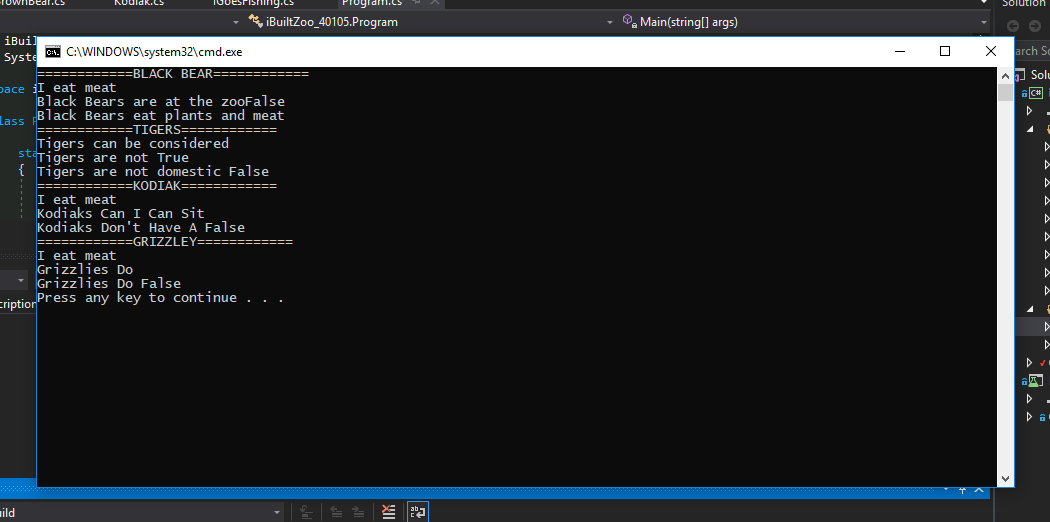
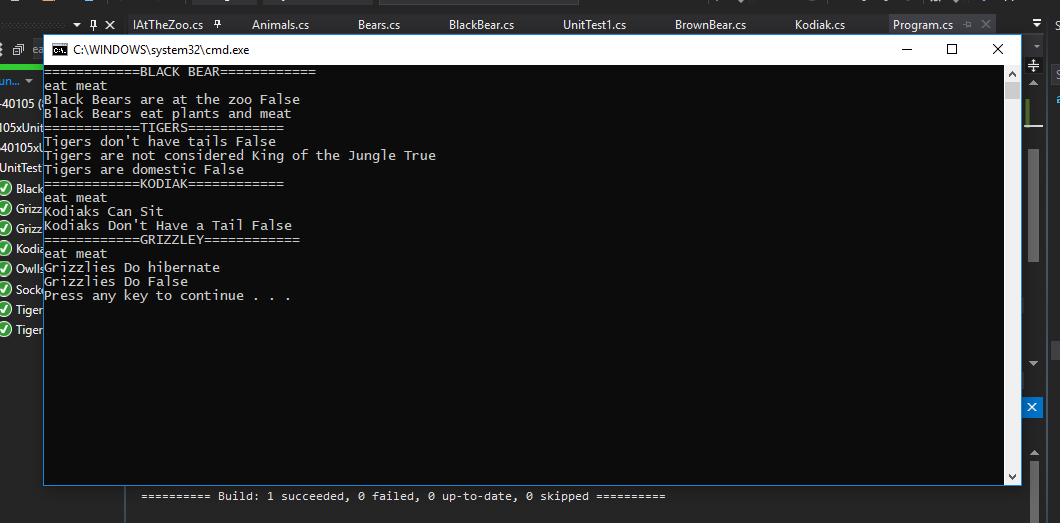
Fixing visual link

Changed region(s): [[0.0, 0.0, 1.0, 1.0]]

diff --git a/iBuiltZoo-40105/Program.cs b/iBuiltZoo-40105/Program.cs
@@ -10,25 +10,25 @@ namespace iBuiltZoo_40105
             BlackBear blackBear = new BlackBear();
             Console.WriteLine("============BLACK BEAR============");
             Console.WriteLine(blackBear.EatsMeat());
-            Console.WriteLine($"Black Bears are at the zoo{blackBear.IsAtTheZoo}");
+            Console.WriteLine($"Black Bears are at the zoo {blackBear.IsAtTheZoo}");
             Console.WriteLine($"Black Bears eat plants and meat {blackBear.Omnivore}");
 
             Tigers tigers = new Tigers();
             Console.WriteLine("============TIGERS============");
-            Console.WriteLine($"Tigers can be considered {tigers.Cats}");
-            Console.WriteLine($"Tigers are not {tigers.KingOfTheJungle()}");
-            Console.WriteLine($"Tigers are not domestic {tigers.Domestic}");
+            Console.WriteLine($"Tigers don't have tails {tigers.HasStrips}");
+            Console.WriteLine($"Tigers are not considered King of the Jungle {tigers.KingOfTheJungle()}");
+            Console.WriteLine($"Tigers are domestic {tigers.Domestic}");
 
             Kodiak kodiak = new Kodiak();
             Console.WriteLine("============KODIAK============");
             Console.WriteLine(kodiak.EatsMeat());
-            Console.WriteLine($"Kodiaks Can {kodiak.Sit()}");
-            Console.WriteLine($"Kodiaks Don't Have A { kodiak.HasTail} ");
+            Console.WriteLine($"Kodiaks {kodiak.Sit()}");
+            Console.WriteLine($"Kodiaks Don't Have a Tail { kodiak.HasTail} ");
 
             Grizzley grizzley = new Grizzley();
             Console.WriteLine("============GRIZZLEY============");
             Console.WriteLine(grizzley.EatsMeat());
-            Console.WriteLine($"Grizzlies Do {grizzley.Hibernates}");
+            Console.WriteLine($"Grizzlies Do hibernate {grizzley.Hibernates}");
             Console.WriteLine($"Grizzlies Do { grizzley.HasTail }");
 
 

diff --git a/iBuiltZoo-40105/Class/BlackBear.cs b/iBuiltZoo-40105/Class/BlackBear.cs
@@ -12,7 +12,7 @@ namespace iBuiltZoo_40105.Class
 
         public void IsWild()
         {
-            Console.WriteLine("Guppy's are a tropical fish");
+            Console.WriteLine("are wild");
         }
 
         public override bool Poops()

diff --git a/iBuiltZoo-40105/Class/Animals.cs b/iBuiltZoo-40105/Class/Animals.cs
@@ -14,7 +14,7 @@ namespace iBuiltZoo_40105.Class
 
         public virtual string EatsMeat()
         {
-            return "I eat meat";
+            return "eat meat";
         }
 
         public virtual bool GoesFishing()

diff --git a/iBuiltZoo-40105/Class/Bears.cs b/iBuiltZoo-40105/Class/Bears.cs
@@ -17,7 +17,7 @@ namespace iBuiltZoo_40105.Class
 
         public string Sit()
         {
-            return "I Can Sit";
+            return "Can Sit";
         }
 
         public override bool GoesFishing()
